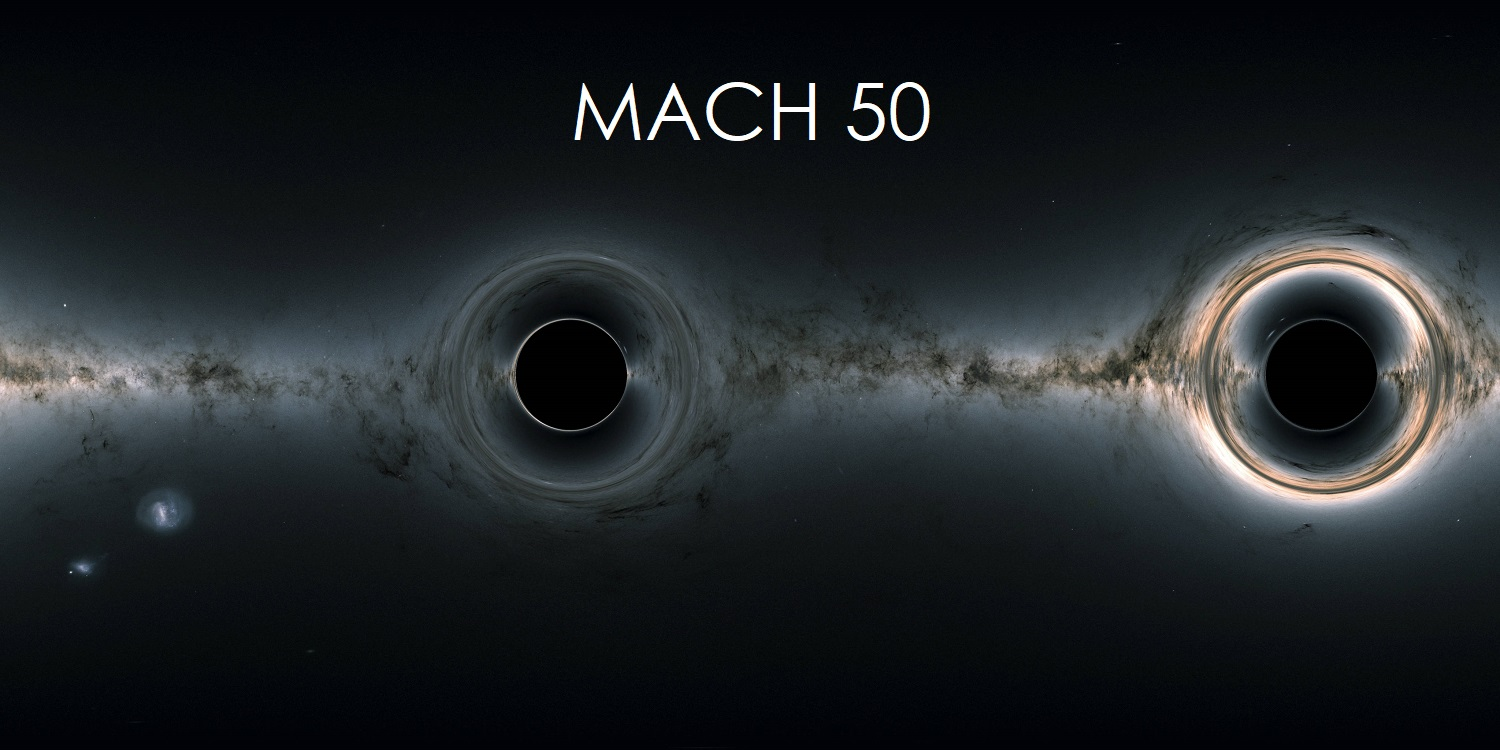
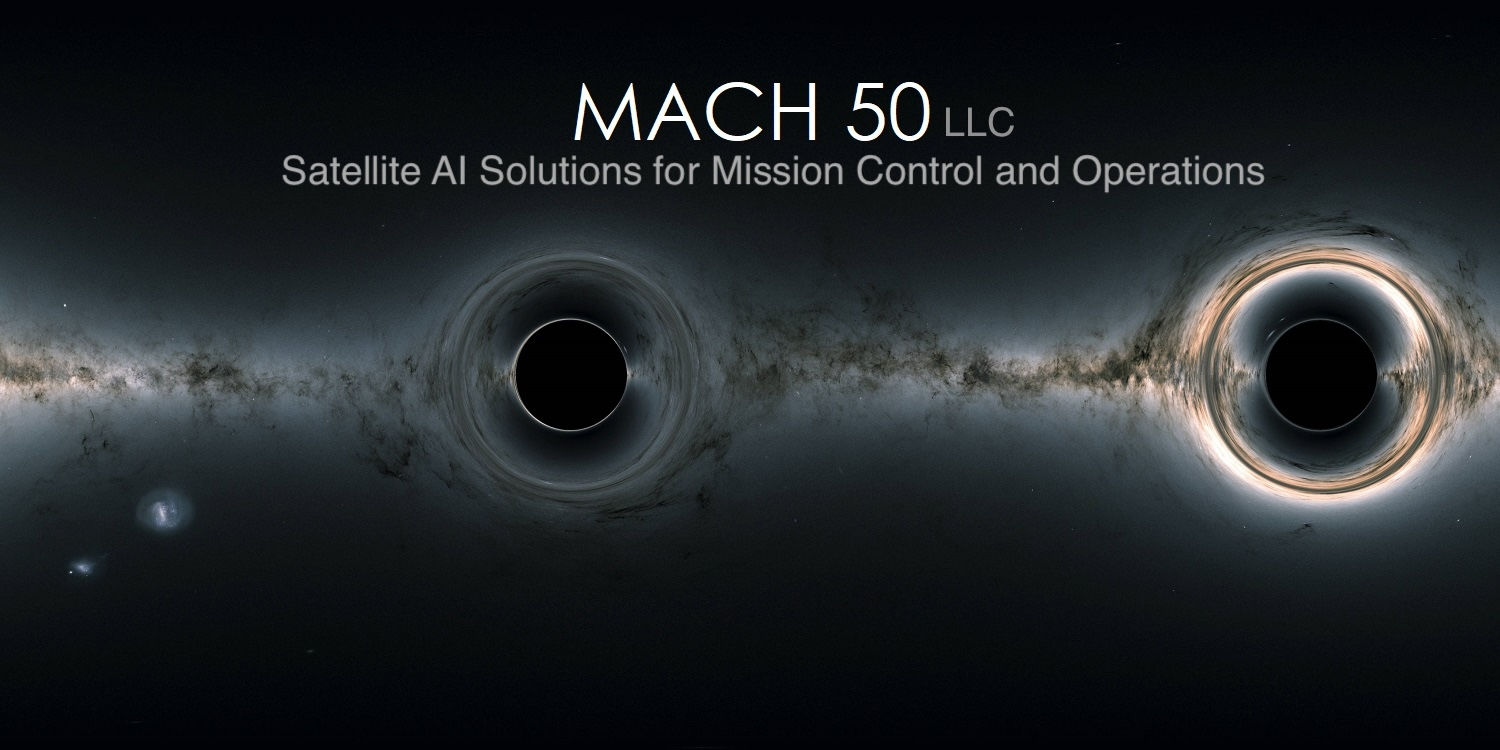
change to title

Changed region(s): [[0.184, 0.184, 0.8587, 0.2453], [0.6133, 0.1227, 0.6747, 0.184]]

diff --git a/css/main.css b/css/main.css
@@ -2777,7 +2777,7 @@ img {
 }
 
 .home-story {
-    background: url(../images/wr-home-about.jpg) no-repeat bottom;
+    /* background: url(../images/wr-home-about.jpg) no-repeat bottom; */
     background-size: cover;
     color: #fff;
     text-align: center;
